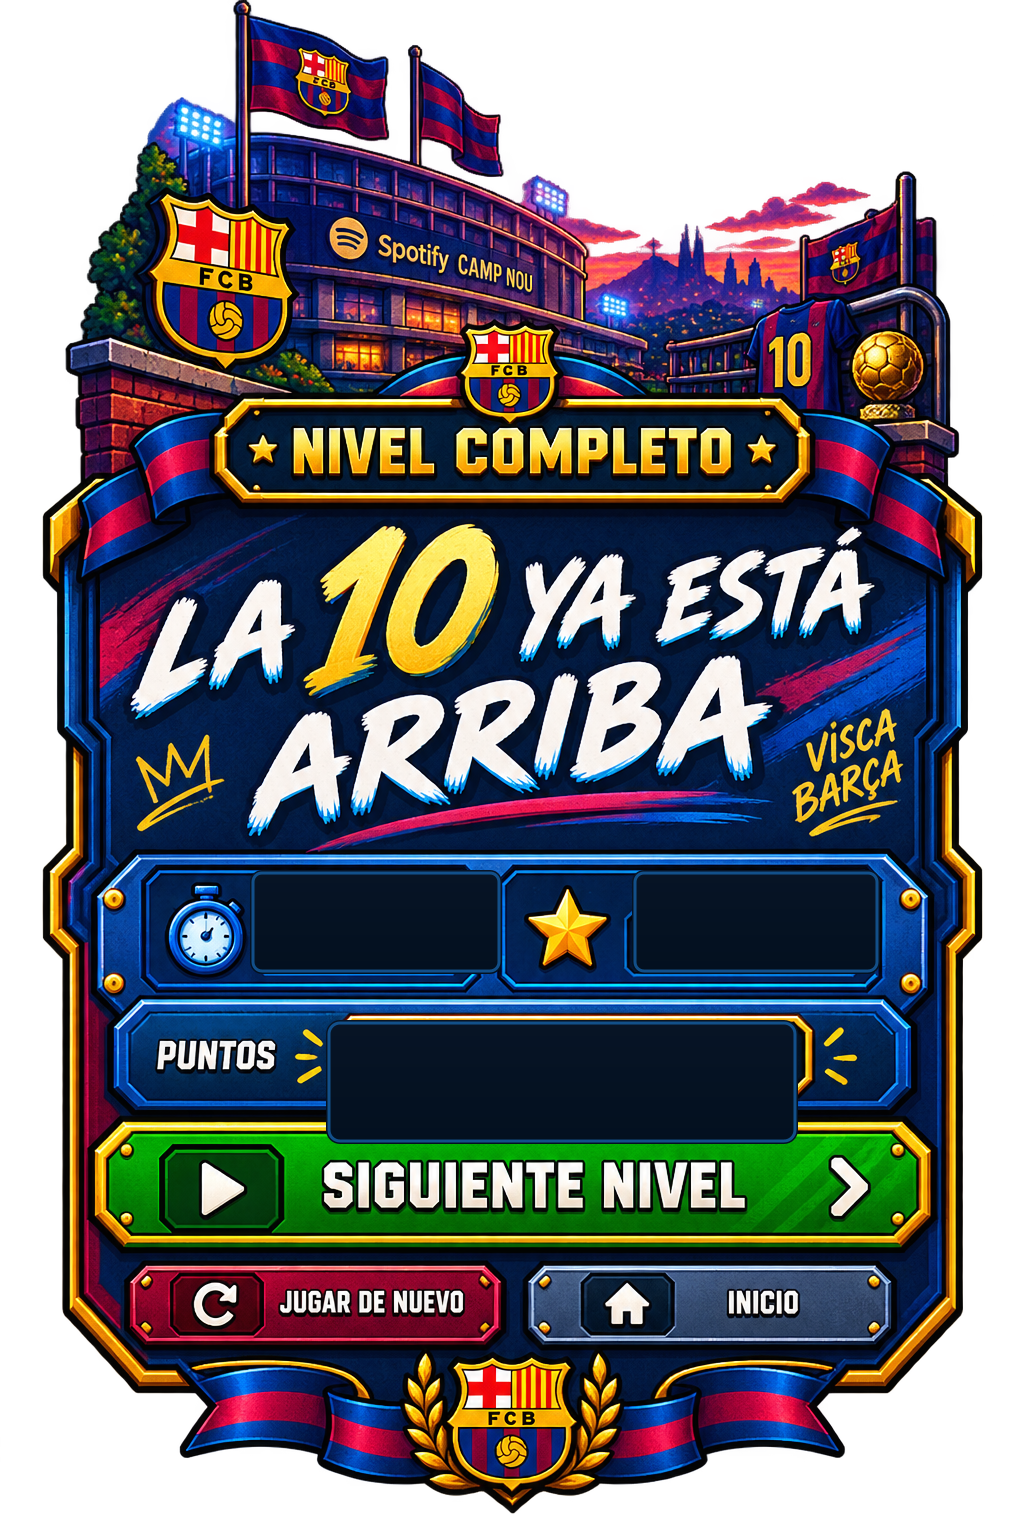
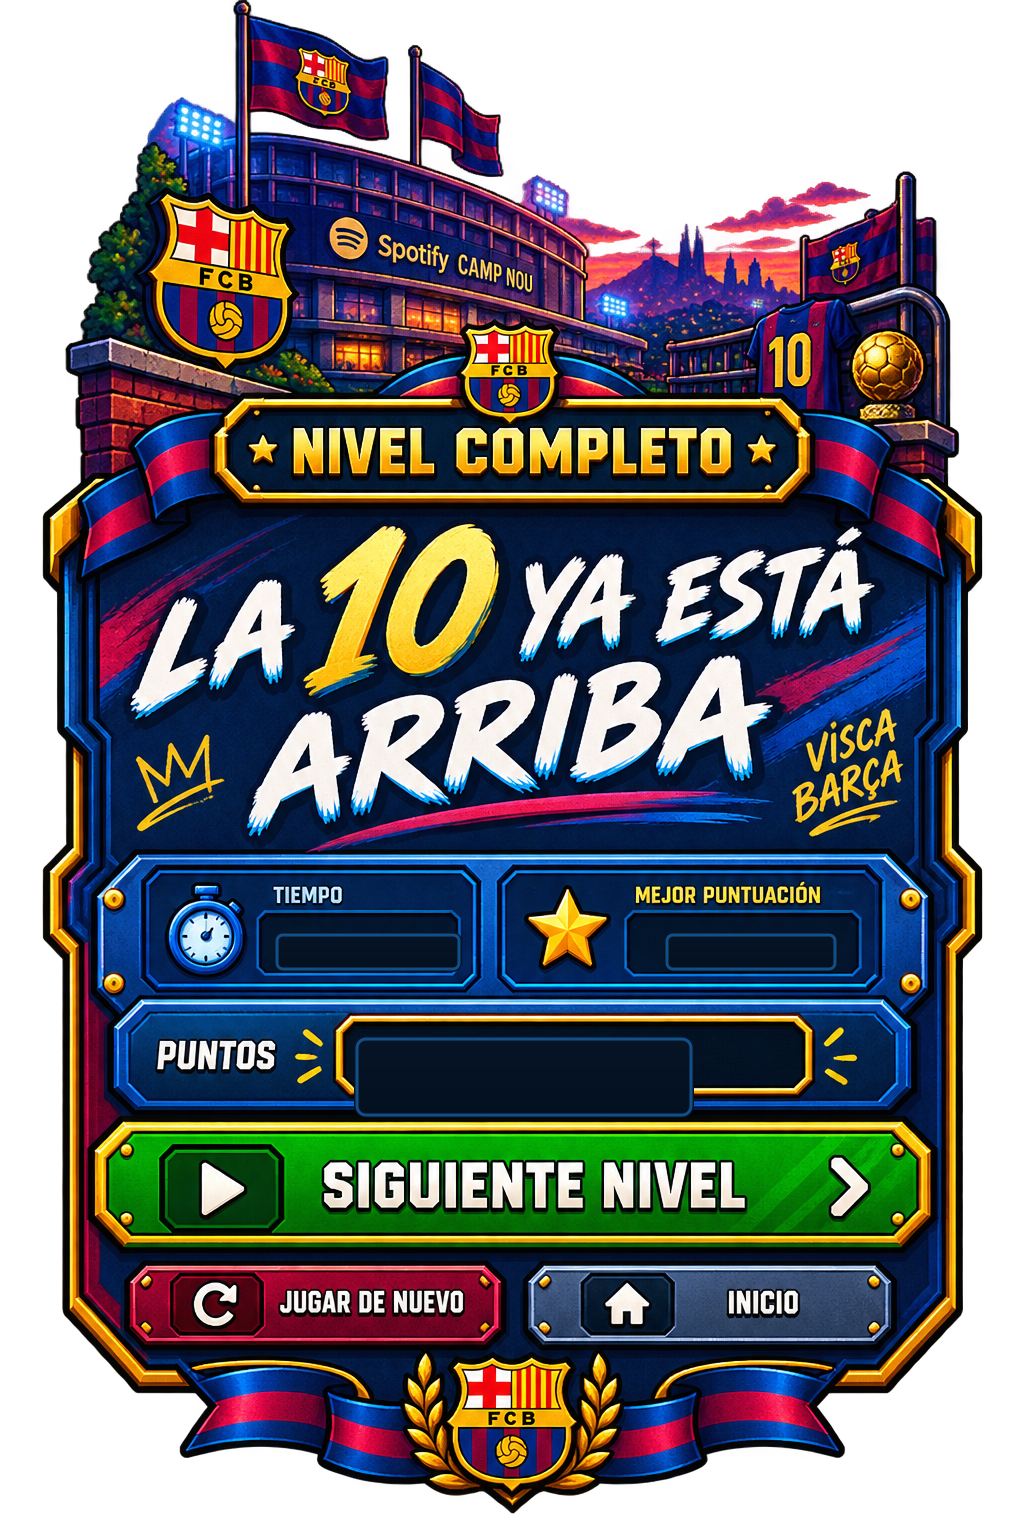
v3.4.8 fix bugs general x2

Changed region(s): [[0.2188, 0.5625, 0.875, 0.75]]

diff --git a/app/donkey-messi/styles.css b/app/donkey-messi/styles.css
@@ -566,8 +566,8 @@
 .climbCluster {
   flex-direction: column;
   gap: 7px;
-  opacity: 0;
-  pointer-events: none;
+  opacity: 0.42;
+  pointer-events: auto;
   transform: translateY(8px);
   transition:
     opacity 120ms ease,
@@ -790,39 +790,38 @@
   overflow: hidden;
   color: #ffffff;
   font-family: var(--font-geist-sans), "Arial Black", Arial, sans-serif;
-  font-size: clamp(15px, 4.1vw, 22px);
+  font-size: clamp(13px, 3.5vw, 18px);
   font-variant-numeric: tabular-nums;
-  font-weight: 900;
+  font-weight: 850;
   line-height: 0.95;
   text-align: center;
-  -webkit-text-stroke: 0.45px rgba(3, 8, 16, 0.88);
+  -webkit-text-stroke: 0.25px rgba(3, 8, 16, 0.82);
   text-shadow:
     0 1px 0 #020814,
-    0 2px 0 rgba(0, 0, 0, 0.35),
-    0 0 9px rgba(95, 190, 255, 0.36);
+    0 0 7px rgba(95, 190, 255, 0.32);
   white-space: nowrap;
 }
 
 .victoryTime {
-  left: 25.8%;
-  top: 57.9%;
-  width: 21.8%;
-  height: 4.8%;
+  left: 27.2%;
+  top: 60.6%;
+  width: 18.6%;
+  height: 2.8%;
 }
 
 .victoryBest {
-  left: 62.9%;
-  top: 57.9%;
-  width: 22%;
-  height: 4.8%;
+  left: 65.2%;
+  top: 60.6%;
+  width: 17.4%;
+  height: 2.8%;
 }
 
 .victoryScore {
-  left: 32.5%;
-  top: 68.7%;
-  width: 45.6%;
-  height: 5.3%;
-  font-size: clamp(18px, 4.9vw, 28px);
+  left: 34.6%;
+  top: 68.25%;
+  width: 33.2%;
+  height: 4.55%;
+  font-size: clamp(15px, 3.7vw, 20px);
 }
 
 .victoryNext {

diff --git a/app/donkey-messi/page.tsx b/app/donkey-messi/page.tsx
@@ -200,7 +200,7 @@ export default function DonkeyMessiPage() {
             <div className={`coverShade ${showTraining || showLevelSelect ? "isTraining" : "isTitle"}`} />
             {!showTraining && !showLevelSelect ? (
               <div className="coverHotspots" aria-label="Menu principal">
-                <p className="buildStamp">Mobile v3.4.8</p>
+                <p className="buildStamp">Mobile v3.4.9</p>
                 <button className="coverHotspot coverHotspotPlay" type="button" onClick={openLevelSelect}>
                   <span className="srOnly">Seleccionar nivel</span>
                 </button>

diff --git a/ui/TouchControls.tsx b/ui/TouchControls.tsx
@@ -117,7 +117,7 @@ export function TouchControls({ input, canClimb, disabled }: TouchControlsProps)
       </div>
 
       <div className="actionCluster">
-        <div className={`climbCluster ${canClimb ? "isActive" : ""}`} aria-hidden={!canClimb}>
+        <div className={`climbCluster ${canClimb ? "isActive" : ""}`} aria-hidden={false}>
           <TouchButton label="Subir" text="^" onDown={(pointerId) => setClimb(pointerId, -1)} onUp={stopClimb} />
           <TouchButton label="Bajar" text="v" onDown={(pointerId) => setClimb(pointerId, 1)} onUp={stopClimb} />
         </div>

diff --git a/entities/Player.ts b/entities/Player.ts
@@ -178,10 +178,10 @@ export class Player {
 function findUsableLadder(rect: Rect, ladders: Ladder[]) {
   const centerX = rect.x + rect.width / 2;
   const probe = {
-    x: centerX - 10,
-    y: rect.y + 5,
-    width: 20,
-    height: rect.height - 7,
+    x: centerX - 18,
+    y: rect.y + 1,
+    width: 36,
+    height: rect.height + 2,
   };
 
   return ladders.find((ladder) => rectsOverlap(probe, ladder));

diff --git a/README.md b/README.md
@@ -721,9 +721,22 @@ Estado: en desarrollo validado.
   - Stroke mas fino.
   - Numeros tabulares para mejor centrado.
 
+### V3.4.9
+
+Estado: en desarrollo validado.
+
+- Controles de escalera cambiados a modo arcade:
+  - Subir/bajar quedan siempre disponibles como pre-input.
+  - Cuando no hay escalera se ven apagados, pero se pueden mantener presionados antes de llegar.
+  - Al cruzar una escalera con arriba/abajo, Messi se engancha.
+- Zona de agarre de escalera ampliada sin volverla solida.
+- Carteles de victoria regenerados con tapas mas quirurgicas:
+  - Los rotulos `TIEMPO`, `MEJOR PUNTUACION` y `PUNTOS` quedan visibles.
+  - Los numeros quedan mas bajos, finos y contenidos dentro de los visores.
+
 ## Siguiente Paso
 
-Playtest manual de V3.4.8 en telefono real. Confirmar especialmente salto hacia escalera, agarre en aire y que los pinches del Nivel 2 sean evitables sin sentirse regalados.
+Playtest manual de V3.4.9 en telefono real. Confirmar especialmente mantener arriba antes de tocar escalera, salto con agarre en aire y lectura de numeros de victoria.
 
 ## Roadmap
 

diff --git a/docs/ROADMAP_FASE_2_V3.md b/docs/ROADMAP_FASE_2_V3.md
@@ -405,6 +405,24 @@ Criterio de cierre:
 - La escalera se agarra cuando se busca, no por roce.
 - Los numeros de victoria se ven mas finos y centrados.
 
+### V3.4.9 - Escalera Arcade Y Victoria Integrada
+
+Objetivo: recuperar la simpleza de Donkey Kong original en el input de escaleras.
+
+Alcance:
+
+- Mantener botones de subir/bajar siempre disponibles para pre-input.
+- Mostrar el estado activo con opacidad, no bloqueando el toque.
+- Ampliar zona de agarre sin hacer la escalera solida.
+- Regenerar carteles de victoria con tapas mas pequenas y mejor posicionadas.
+- Ajustar texto numerico para no pisar rotulos.
+
+Criterio de cierre:
+
+- El jugador puede mantener arriba antes de llegar a una escalera.
+- El agarre en aire no depende de tocar en el frame exacto.
+- Los numeros se integran al cartel sin tapar labels.
+
 ## V3.5 - Rescate Opcional Simple
 
 Objetivo: sumar una meta secundaria sin crear complejidad narrativa.
